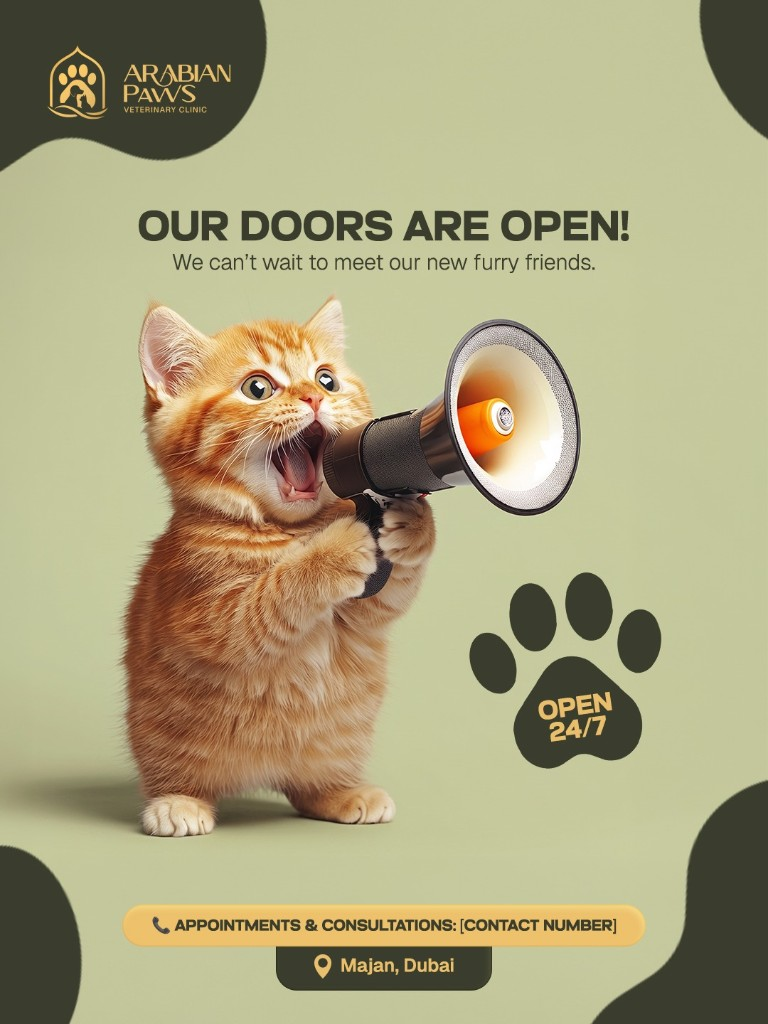
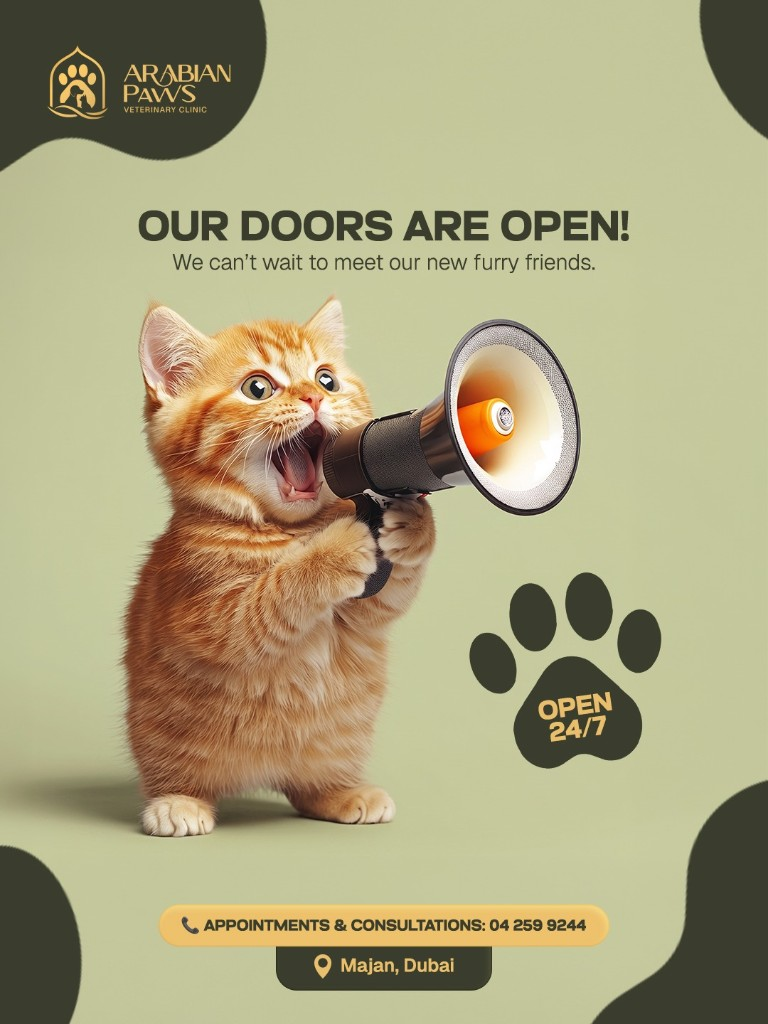
Fix mobile overlaps, refresh gallery, and tune VIP hero.
Resolve text/image collisions on About, services, and footer; set blog dates to September weekdays; replace gallery-4; enlarge VIP Home Care hero image.

Changed region(s): [[0.1562, 0.875, 0.8438, 0.9375]]

diff --git a/src/components/services.tsx b/src/components/services.tsx
@@ -58,7 +58,7 @@ function PhotoCard({
       >
         {children}
         <h3
-          className={`absolute left-[26px] top-[26px] z-10 w-[200px] font-display text-[23px] uppercase leading-[22px] ${titleClass}`}
+          className={`absolute left-[26px] top-[26px] z-10 w-[200px] font-display text-[23px] uppercase leading-[22px] drop-shadow-[0_2px_10px_rgba(0,0,0,0.45)] ${titleClass}`}
         >
           {title}
         </h3>
@@ -194,18 +194,18 @@ export function Services({
 
           {showVisitAll ? (
             <>
-              <article className="relative h-[314px] w-[314px] overflow-hidden rounded-xl bg-olive p-6 transition-transform duration-500 hover:-translate-y-1 sm:col-span-2 sm:w-[636px] xl:col-span-2 xl:col-start-1 xl:row-start-3 xl:w-[636px]">
+              <article className="relative flex h-auto min-h-[314px] w-[314px] flex-col overflow-hidden rounded-xl bg-olive p-6 transition-transform duration-500 hover:-translate-y-1 sm:col-span-2 sm:w-[636px] xl:col-span-2 xl:col-start-1 xl:row-start-3 xl:h-[314px] xl:w-[636px]">
                 <h3 className="max-w-[220px] font-display text-[23px] uppercase leading-[22px] text-gold">
                   Visit our all services
                 </h3>
-                <p className="absolute bottom-[28px] left-[26px] max-w-[358px] text-[20px] leading-[23px] text-white">
+                <p className="mt-6 max-w-[360px] flex-1 text-[18px] leading-[23px] text-white sm:text-[20px] xl:mt-auto xl:max-w-[340px] xl:pr-4 xl:pb-14">
                   Complete care. Specialised expertise. Support through routine healthcare, illness
                   and treatment.
                 </p>
                 <PillButton
                   href="/services"
                   variant="cream"
-                  className="absolute bottom-[18px] right-[18px]"
+                  className="mt-6 self-start xl:absolute xl:bottom-[18px] xl:right-[18px] xl:mt-0"
                 >
                   See All
                 </PillButton>
@@ -221,7 +221,7 @@ export function Services({
                 <Animal
                   src="/images/pet-food-nutrition.png"
                   wrapClass="inset-0"
-                  imgClass="left-0 top-0 h-full w-full object-cover object-left"
+                  imgClass="left-0 top-[18%] h-[92%] w-full object-cover object-left"
                 />
               </PhotoCard>
 
@@ -250,7 +250,7 @@ export function Services({
               >
                 <Animal
                   src="/images/pet-food-nutrition.png"
-                  wrapClass="right-0 bottom-0 top-0 w-[55%]"
+                  wrapClass="right-0 bottom-0 top-[12%] w-[55%]"
                   imgClass="inset-0 h-full w-full object-cover object-left"
                 />
               </PhotoCard>

diff --git a/src/components/footer.tsx b/src/components/footer.tsx
@@ -36,12 +36,12 @@ export function Footer() {
 
       <div className="relative z-10 mx-auto flex max-w-[1440px] flex-col px-5 pb-6 pt-12 lg:px-[80px] lg:pb-8 lg:pt-14">
         <div className="grid gap-8 lg:grid-cols-[minmax(0,280px)_minmax(0,1fr)_minmax(0,240px)] lg:items-start lg:gap-10">
-          <div className="relative z-20 max-w-[260px]">
+          <div className="relative z-20 max-w-[260px] lg:pb-8">
             <Logo variant="footer" />
             <p className="mt-4 max-w-[260px] text-sm font-light leading-[22px] text-cream">
               Exceptional Care. Healthier Smiles.
             </p>
-            <p className="mt-2 max-w-[260px] text-xs font-light leading-[18px] text-cream/70">
+            <p className="mt-2 max-w-[220px] text-xs font-light leading-[18px] text-cream/70">
               Veterinary Care | Dental Care | Emergency &amp; Critical Care | Wellness
             </p>
           </div>
@@ -139,13 +139,13 @@ export function Footer() {
         </div>
       </div>
 
-      <div className="pointer-events-none absolute bottom-0 left-0 z-0 hidden h-[380px] w-[340px] lg:block">
+      <div className="pointer-events-none absolute bottom-0 left-0 z-0 hidden h-[220px] w-[300px] lg:block">
         <Image
           src="/images/footer-cat-dog.png"
           alt="Cat and dog"
           fill
-          className="object-contain object-left-bottom mix-blend-screen opacity-90"
-          sizes="340px"
+          className="object-contain object-left-bottom mix-blend-screen opacity-80"
+          sizes="300px"
         />
       </div>
       <div className="relative z-10 pb-4 text-center text-xs font-light text-cream/60">

diff --git a/src/data/blogs.ts b/src/data/blogs.ts
@@ -22,7 +22,7 @@ export const BLOGS: BlogPost[] = [
     description:
       "Relocating to or from the UAE with your pet — permits, microchips, rabies titers, fit-to-fly certificates and crate preparation.",
     tag: "Travel",
-    date: "May 7, 2024",
+    date: "September 15, 2026",
     image: "/images/blog-relocation.webp",
     dot: "bg-[#97d4ff]",
     body: [
@@ -80,7 +80,7 @@ export const BLOGS: BlogPost[] = [
     description:
       "How to recognise heatstroke signs, give safe first aid, and protect pets during Dubai's extreme summer heat.",
     tag: "Tips",
-    date: "May 7, 2024",
+    date: "September 11, 2026",
     image: "/images/svc/vip-comfort.jpg",
     dot: "bg-[#ff9797]",
     body: [
@@ -142,7 +142,7 @@ export const BLOGS: BlogPost[] = [
     description:
       "Why bad breath matters, how gum disease affects overall health, and what professional dental care involves.",
     tag: "Dental",
-    date: "May 7, 2024",
+    date: "September 8, 2026",
     image: "/images/blog-dental.webp",
     dot: "bg-[#ffa0ea]",
     body: [
@@ -206,7 +206,7 @@ export const BLOGS: BlogPost[] = [
     description:
       "Core and non-core vaccines, booster schedules, and UAE legal requirements for pet registration and travel.",
     tag: "Wellness",
-    date: "May 7, 2024",
+    date: "September 2, 2026",
     image: "/images/blog-vaccination.webp",
     dot: "bg-[#c6cf9f]",
     body: [

diff --git a/src/components/about-values.tsx b/src/components/about-values.tsx
@@ -66,8 +66,8 @@ export function AboutValues() {
         </div>
 
         <div className="mt-4 grid grid-cols-1 gap-4 lg:grid-cols-[minmax(0,2fr)_minmax(0,1fr)_minmax(0,1fr)]">
-          <article className="relative min-h-[294px] overflow-hidden rounded-[24px] bg-sage p-8 sm:p-[42px]">
-            <div className="relative z-10 max-w-[210px]">
+          <article className="relative flex min-h-[294px] flex-col overflow-hidden rounded-[24px] bg-sage p-8 sm:p-[42px]">
+            <div className="relative z-10 max-w-[280px] sm:max-w-[240px] lg:max-w-[210px]">
               <h3 className="font-display text-2xl leading-[30px] text-olive">Teamwork</h3>
               <p className="mt-3 text-base font-medium leading-[21px] text-muted">
                 Great veterinary care is a team effort. Our veterinary, nursing and support teams
@@ -77,7 +77,7 @@ export function AboutValues() {
             <img
               src="/images/about-teamwork-pets.png"
               alt="Dog, cat and rabbit together"
-              className="pointer-events-none absolute bottom-0 right-0 h-[285px] w-[285px] object-contain object-bottom"
+              className="pointer-events-none mt-6 h-[200px] w-[200px] self-end object-contain object-bottom lg:absolute lg:bottom-0 lg:right-0 lg:mt-0 lg:h-[285px] lg:w-[285px]"
             />
           </article>
           <ValueCard

diff --git a/src/components/services-catalog.tsx b/src/components/services-catalog.tsx
@@ -68,7 +68,7 @@ function PhotoCard({
     >
       {children}
       <h3
-        className={`absolute left-[26px] top-[26px] z-10 w-[180px] font-display text-[23px] uppercase leading-[22px] ${titleClass}`}
+        className={`absolute left-[26px] top-[26px] z-10 w-[180px] font-display text-[23px] uppercase leading-[22px] drop-shadow-[0_2px_10px_rgba(0,0,0,0.45)] ${titleClass}`}
       >
         {title}
       </h3>
@@ -287,7 +287,7 @@ function items(): CatalogItem[] {
           <Animal
             src="/images/pet-food-nutrition.png"
             wrapClass="inset-0"
-            imgClass="left-0 top-0 h-full w-full object-cover object-left"
+            imgClass="left-0 top-[18%] h-[92%] w-full object-cover object-left"
           />
         </PhotoCard>
       ),

diff --git a/src/data/services.ts b/src/data/services.ts
@@ -353,8 +353,8 @@ export const SERVICES: ServicePageData[] = [
       "VIP veterinary care at your doorstep, from routine visits and diagnostics to pet transport and private end-of-life care, designed around comfort and convenience.",
     heroImage: "/images/vip-home-care.png",
     heroAlt: "Woman holding a white puppy",
-    heroWrapClass: "right-6 top-8 h-[520px] w-[600px]",
-    heroImageClass: "size-full object-contain object-center",
+    heroWrapClass: "right-10 bottom-0 h-[1040px] w-[1200px]",
+    heroImageClass: "size-full object-contain object-right-bottom",
     badge: "Care That Comes To You",
     metaTitle: "VIP Home Veterinary Care | Arabian Paws",
     metaDescription:

diff --git a/src/components/inner-service-hero.tsx b/src/components/inner-service-hero.tsx
@@ -40,7 +40,7 @@ export function InnerServiceHero({ service }: { service: ServicePageData }) {
           <div
             className={
               service.heroWrapClass
-                ? `pointer-events-none absolute hidden overflow-hidden lg:block ${service.heroWrapClass}`
+                ? `pointer-events-none absolute hidden lg:block ${service.heroWrapClass}`
                 : "pointer-events-none absolute left-[414px] top-0 hidden h-[720px] w-[842px] overflow-hidden pt-10 lg:block"
             }
           >
